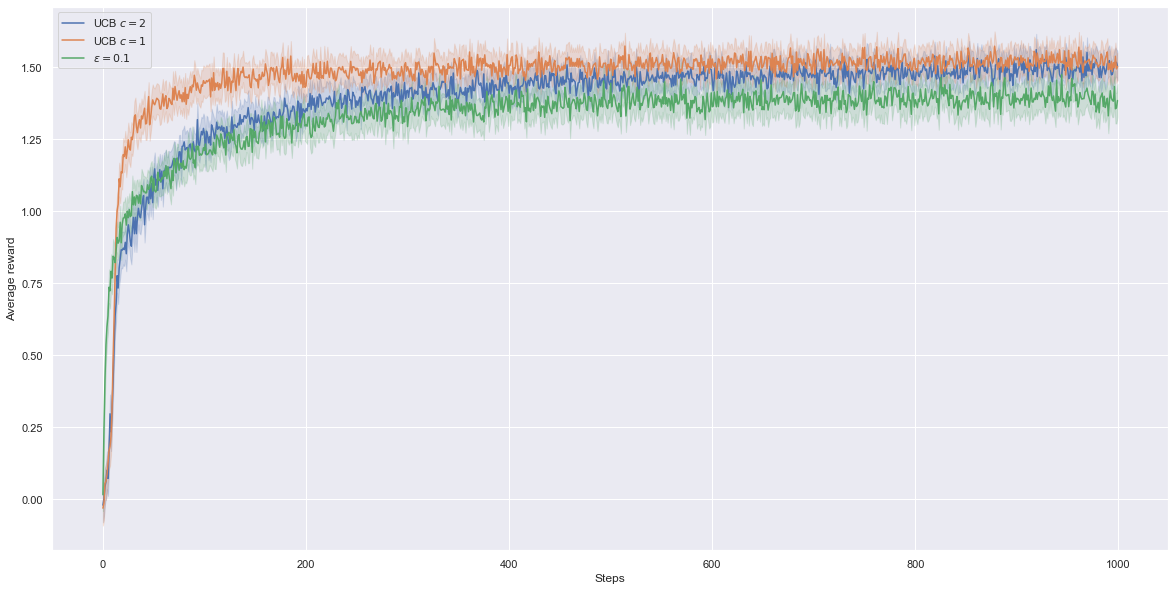
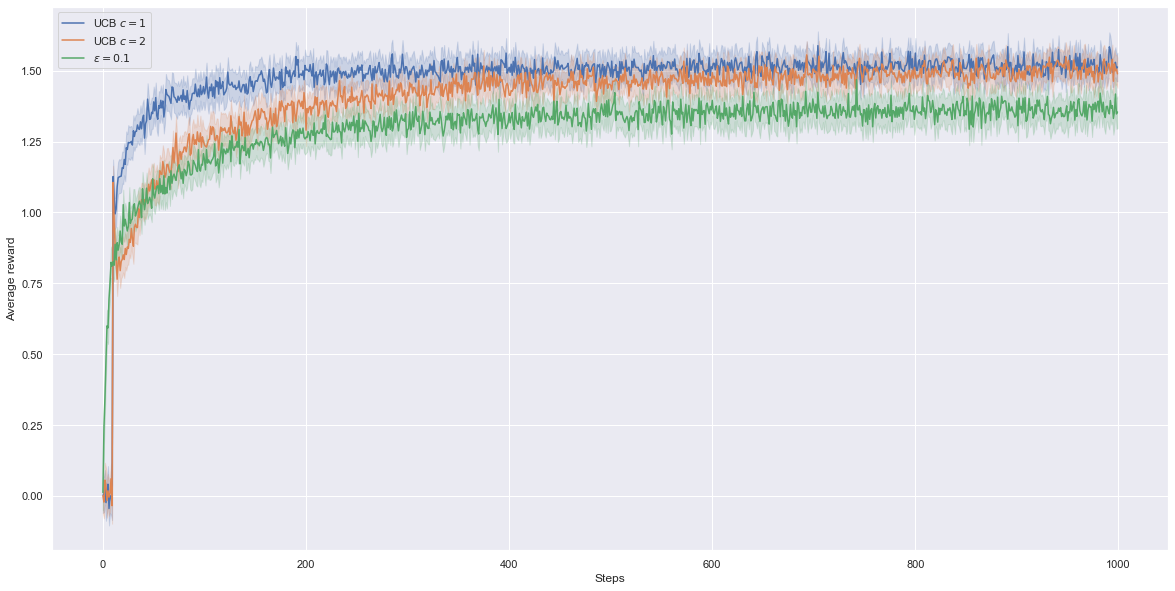
updated README and UCB

diff --git a/Intro_RL_Sutton_book/Chap2-Multi-Armed-Bandits/10-armed-testbed/README.md b/Intro_RL_Sutton_book/Chap2-Multi-Armed-Bandits/10-armed-testbed/README.md
@@ -1,6 +1,6 @@
 # 10-armed Testbed
 
----
+
 
 We try to replicate a suite of test problems called 10-armed Testbed from Sutton and Barto's book as well as the numerical experiments showing the effects of epsilon-greedy methods, optimistic initial values estimates and Upper-Confidence-Bound (UCB) action selection method. In this `README.md`, we only focus on action-value methods, methods that first estimate the values of the actions and then use them to pick actions. Gradient bandit algorithm is explained quickly in the `gradient_bandit.md` file.
 
@@ -10,7 +10,7 @@ We try to replicate a suite of test problems called 10-armed Testbed from Sutton
 
 **Note:** We broke ties randomly for the argmax instead of picking the first action all the time.
 
----
+
 
 ## Introduction
 
@@ -41,7 +41,7 @@ The book explains that the constant step-size parameter can be useful for tracki
 
 For nonstationary problems, the book explains a constant step-size trick in the exercises combining advantages of sample-average methods that do not have any initial bias after each action is selected at least once and of exponentially recency-weighted average that is useful to track nonstationary problems. The trick is to have a step-size parameter starting at 1 and decreasing towards a constant step-size that we fix. As effect, the initial bias disappears once all actions are selected at least once.
 
----
+
 
 ## Effectiveness of greedy or epsilon-greedy action-value methods
 
@@ -77,7 +77,7 @@ Epsilon=0.01 increases slowly but will perform the best in the two plots.
 In the implementation, we estimated the true action values (mean of the reward distribution for each action) by computing the empirical mean incrementally (by sample-averages).
 To obtain the percentage of optimal action curve, we have to set 1's for the time steps where we took an optimal action then do averages time-step-wise.
 
----
+
 
 ## Optimistic Initial Values 
 
@@ -111,11 +111,11 @@ If we apply the formula blindly, we would be dividing by zero on actions that we
 
 ### Average reward of  UCB versus epsilon-greedy
 
-Blue is for UCB with c=2, orange for c=1 and green for epsilon-greedy with epsilon=0.1
+Blue is for UCB with c=1, orange for c=2 and green for epsilon-greedy with epsilon=0.1
 
 ![avg reward](./images/avg_reward_ucb.png)
 
-<u>Remark:</u> Although there's a spike around step 11 in the book that we don't see in our graph, the rest looks similar.
+Remark: The orange curve is similar to the blue curve in the book (both c=2). The spike is less prominent for c=1.
 
 ### Percentage of optimal action of  UCB versus epsilon-greedy
 

diff --git a/Intro_RL_Sutton_book/Chap2-Multi-Armed-Bandits/10-armed-testbed/gradient_bandit.md b/Intro_RL_Sutton_book/Chap2-Multi-Armed-Bandits/10-armed-testbed/gradient_bandit.md
@@ -6,6 +6,14 @@ Action selections are based on a soft-max distribution that uses the action pref
 We try to replicate Figure 2.5: Average performance of the gradient bandit algorithm with and without a reward
 baseline on the 10-armed testbed when the q*(a) are chosen to be near +4 rather than near zero.
 
+### Average reward of gradient bandit algorithm with or without reward baseline
+
 ![avg reward](./images/avg_reward_gradient_bandit.png)
 
+
+
+### Percent optimal action of gradient bandit algorithm with or without reward baseline
+
 ![percent optimal action](./images/percent_optimal_action_gradient_bandit.png)
+
+We can observe that gradient bandit algorithm with baseline adapts better to the shift of the reward distributions than without baseline. The baseline affects the variance (as long as it does not depend on the action selected) (and the rate of convergence) but does not affect the expected update.
